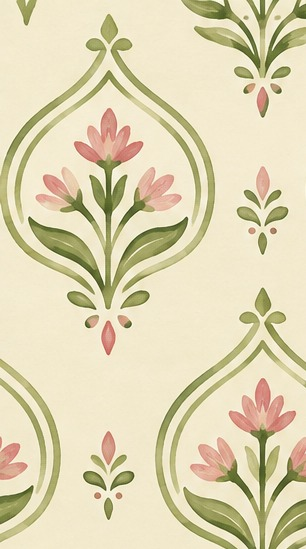
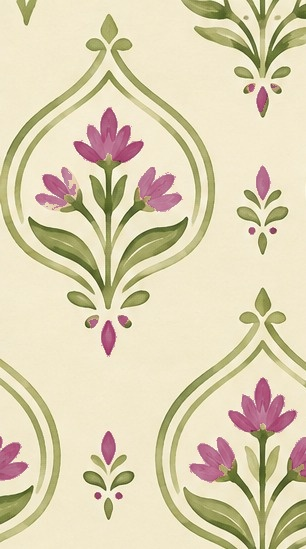
Add files via upload

diff --git a/index.html b/index.html
@@ -299,8 +299,19 @@
 
   .linkedin:hover{ background: #004182; }
 
+  .content-card{
+    background: var(--page-bg);
+    border: 1px solid var(--line);
+    border-radius: 14px;
+    padding: 26px 28px;
+  }
+
   .role{
-    margin-bottom: 28px;
+    background: var(--page-bg);
+    border: 1px solid var(--line);
+    border-radius: 14px;
+    padding: 22px 24px;
+    margin-bottom: 18px;
   }
 
   .role:last-child{ margin-bottom: 0; }
@@ -331,8 +342,15 @@
   .skills-grid{
     display: grid;
     grid-template-columns: repeat(auto-fit, minmax(230px, 1fr));
-    gap: 26px 32px;
+    gap: 18px 20px;
     margin-top: 8px;
+  }
+
+  .skill{
+    background: var(--page-bg);
+    border: 1px solid var(--line);
+    border-radius: 12px;
+    padding: 18px 20px;
   }
 
   .skill h4{
@@ -385,6 +403,32 @@
     border-radius: 8px;
     border: 1px solid var(--line);
     display: block;
+  }
+
+  .painting-row{
+    display: flex;
+    align-items: flex-start;
+    flex-wrap: wrap;
+    gap: 14px;
+    margin-top: 16px;
+    max-width: 480px;
+  }
+
+  .painting-row img{
+    height: 220px;
+    width: auto;
+    max-width: 100%;
+    object-fit: cover;
+    border-radius: 8px;
+    border: 1px solid var(--line);
+    display: block;
+  }
+
+  .project{
+    background: var(--page-bg);
+    border: 1px solid var(--line);
+    border-radius: 14px;
+    padding: 24px 26px;
   }
 
   .project h3{
@@ -552,6 +596,11 @@
       flex-shrink: 0;
     }
     .skills-grid{ grid-template-columns: 1fr; }
+    .content-card{ padding: 20px; }
+    .role{ padding: 18px 18px; }
+    .project{ padding: 18px 18px; }
+    .painting-row{ gap: 10px; }
+    .painting-row img{ height: 110px; }
   }
 
   /* Medium-subtle editorial paper grain */
@@ -643,18 +692,20 @@
       </div>
       <div class="hero-bio">
         <h2 style="margin-top: 32px;"><span class="section-num-inline">01 /</span> About</h2>
-        <p class="bio">Niharika (nee-hah-ree-kah) is a Johns Hopkins-trained professional who works at the intersection of data, systems, and relationships. Having moved seven times growing up, residing across the East and West Coast of the US, India, and Singapore, she learned to read a room and build trust with people from any background, a skill that now shows up in every stakeholder relationship she manages. At Montefiore Medicine, she runs 10+ concurrent workstreams and works across clinical systems including EPIC, REDCap, and ePACES (healthcare's version of a CRM). Just as importantly, she has built strong relationships across the organization, from community partners to program leadership. She keeps herself abreast of developments in AI and looks for smart, practical ways to apply them, like in streamlining workflows and surfacing insights faster, so technology can enhance human judgment rather than replacing it. She's an efficient learner who thrives on translating data into actionable insights, presenting findings to stakeholders, and growing both her technical and people-facing skills wherever that work takes her.</p>
+        <div class="content-card">
+          <p class="bio">Niharika (nee-hah-ree-kah) is a Johns Hopkins-trained professional who works at the intersection of data, systems, and relationships. Having moved seven times growing up, residing across the East and West Coast of the US, India, and Singapore, she learned to read a room and build trust with people from any background, a skill that now shows up in every stakeholder relationship she manages. At Montefiore Medicine, she runs 10+ concurrent workstreams and works across clinical systems including EPIC, REDCap, and ePACES (healthcare's version of a CRM). Just as importantly, she has built strong relationships across the organization, from community partners to program leadership. She keeps herself abreast of developments in AI and looks for smart, practical ways to apply them, like in streamlining workflows and surfacing insights faster, so technology can enhance human judgment rather than replacing it. She's an efficient learner who thrives on translating data into actionable insights, presenting findings to stakeholders, and growing both her technical and people-facing skills wherever that work takes her.</p>
+        </div>
       </div>
     </div>
 
     <section id="experience">
         <h2><span class="section-num-inline">02 /</span> Selected Experience</h2>
-        <p class="lede">Building trust and driving results across data, outreach, and client relationships, in healthcare and beyond.</p>
+        <p class="lede">Building trust and driving results across data, outreach, and client relationships — healthcare and beyond.</p>
 
         <div class="role">
           <h3>Montefiore Medicine (BE-InCK NY), Project Analyst</h3>
           <time>Aug 2024 – Current</time>
-          <p>Manage a portfolio of 10+ concurrent outreach and account workstreams at once, prioritizing daily across competing deadlines, similar to running a full book of accounts. Run high-volume outreach campaigns to hundreds of members per cycle, treating every contact like a sales touchpoint: building trust, handling objections, and moving people toward enrollment. Operate multiple clinical data systems (EPaces, RedCap, EPIC, healthcare's version of a CRM or case-management platform) to track outreach and report results, comfortable ramping quickly on new systems the way a sales team ramps on a new CRM. Use SQL and Excel to help automate part of an eligibility verification workflow, cutting manual lookup time. Maintain and tier a caseload of at-risk members across three risk levels, similar to account segmentation, so the right level of outreach and follow-up happens at the right time. Stay current on emerging AI tools and evaluate where they can sharpen these workflows further.</p>
+          <p>Manage a portfolio of 10+ concurrent outreach and account workstreams at once, prioritizing daily across competing deadlines, similar to running a full book of accounts. Run high-volume outreach campaigns to hundreds of members per cycle, treating every contact like a sales touchpoint: building trust, handling objections, and moving people toward enrollment. Operate multiple clinical data systems (EPaces, RedCap, EPIC — like a CRM or case-management platform) to track outreach and report results, comfortable ramping quickly on new systems. Use SQL and Excel to help automate part of an eligibility verification workflow, cutting manual lookup time. Maintain and tier a caseload of at-risk members across three risk levels, similar to account segmentation, so the right level of outreach and follow-up happens at the right time. Stay current on emerging AI tools and evaluate where they can sharpen these workflows further.</p>
         </div>
 
         <div class="role">
@@ -718,7 +769,7 @@
 
       <section id="projects">
         <h2><span class="section-num-inline">04 /</span> Selected Work</h2>
-        <p class="lede">Selected work spanning data automation, research, and technology design.</p>
+        <p class="lede">Selected work spanning data automation, research, and&nbsp;technology&nbsp;design.</p>
 
         <div class="project">
           <h3>HRIDAY: Real-Time Heart Attack Alert App Use Case</h3>
@@ -744,29 +795,39 @@
       <section id="hobbies">
         <h2>Outside of Work</h2>
         <p class="lede">Niharika is an avid painter and a classically trained Bharatanatyam dancer of over ten years, culminating in her Arangetram in 2018. Both practices continue to shape how she approaches her work: with patience, precision, and an eye for detail.</p>
-        <div class="dance-gallery">
-          <img src="dance-1.jpeg" alt="Niharika performing Bharatanatyam" loading="lazy">
-          <img src="dance-2.jpeg" alt="Niharika performing Bharatanatyam" loading="lazy">
-          <img src="dance-3.jpeg" alt="Niharika performing Bharatanatyam" loading="lazy">
+        <div class="content-card">
+          <div class="dance-gallery">
+            <img src="dance-1.jpeg" alt="Niharika performing Bharatanatyam" loading="lazy">
+            <img src="dance-2.jpeg" alt="Niharika performing Bharatanatyam" loading="lazy">
+            <img src="dance-3.jpeg" alt="Niharika performing Bharatanatyam" loading="lazy">
+          </div>
+          <div class="painting-row">
+            <img src="painting-nyc.jpeg" alt="Painting by Niharika of the NYC skyline" loading="lazy">
+            <img src="painting-elephant.jpeg" alt="Painting by Niharika of an elephant" loading="lazy">
+          </div>
+          <p class="project-cta"><a href="https://drive.google.com/drive/folders/17C9Rh2cP2R3H67mcsblDtDsnbbsk5AXv" target="_blank" rel="noopener" style="font-size: 17px;">View Painting Portfolio <svg class="inline-arrow" width="15" height="15" viewBox="0 0 24 24" fill="none" stroke="currentColor" stroke-width="2.5" stroke-linecap="round" stroke-linejoin="round" aria-hidden="true"><path d="M7 17L17 7"/><path d="M8 7h9v9"/></svg></a></p>
         </div>
-        <p class="project-cta"><a href="https://drive.google.com/drive/folders/17C9Rh2cP2R3H67mcsblDtDsnbbsk5AXv" target="_blank" rel="noopener" style="font-size: 17px;">View Painting Portfolio <svg class="inline-arrow" width="15" height="15" viewBox="0 0 24 24" fill="none" stroke="currentColor" stroke-width="2.5" stroke-linecap="round" stroke-linejoin="round" aria-hidden="true"><path d="M7 17L17 7"/><path d="M8 7h9v9"/></svg></a></p>
       </section>
 
       <section id="resume">
         <h2>Want the full story?</h2>
-        <p class="resume-cta"><a href="resume.html">Go to her résumé →</a></p>
-        <p class="form-note">Password protected résumé, available on request.</p>
+        <div class="content-card">
+          <p class="resume-cta"><a href="resume.html">Go to her résumé →</a></p>
+          <p class="form-note">Password protected résumé, available on request.</p>
+        </div>
       </section>
 
       <section id="contact">
         <h2><span class="section-num-inline">05 /</span> Let's Connect!</h2>
         <p class="lede">Have an opportunity or question? Niharika would love to hear from you.</p>
-        <form id="contact-form">
-          <input type="text" id="subject" placeholder="Subject Line" required>
-          <textarea id="message" placeholder="Message" required></textarea>
-          <button type="submit" class="btn">Get In Touch →</button>
-        </form>
-        <p class="form-note">This opens your email app with the message pre-filled, sent to her email.</p>
+        <div class="content-card">
+          <form id="contact-form">
+            <input type="text" id="subject" placeholder="Subject Line" required>
+            <textarea id="message" placeholder="Message" required></textarea>
+            <button type="submit" class="btn">Get In Touch →</button>
+          </form>
+          <p class="form-note">This opens your email app with the message pre-filled, sent to her email.</p>
+        </div>
       </section>
 
       <footer>© 2026 Niharika Desiraju</footer>
